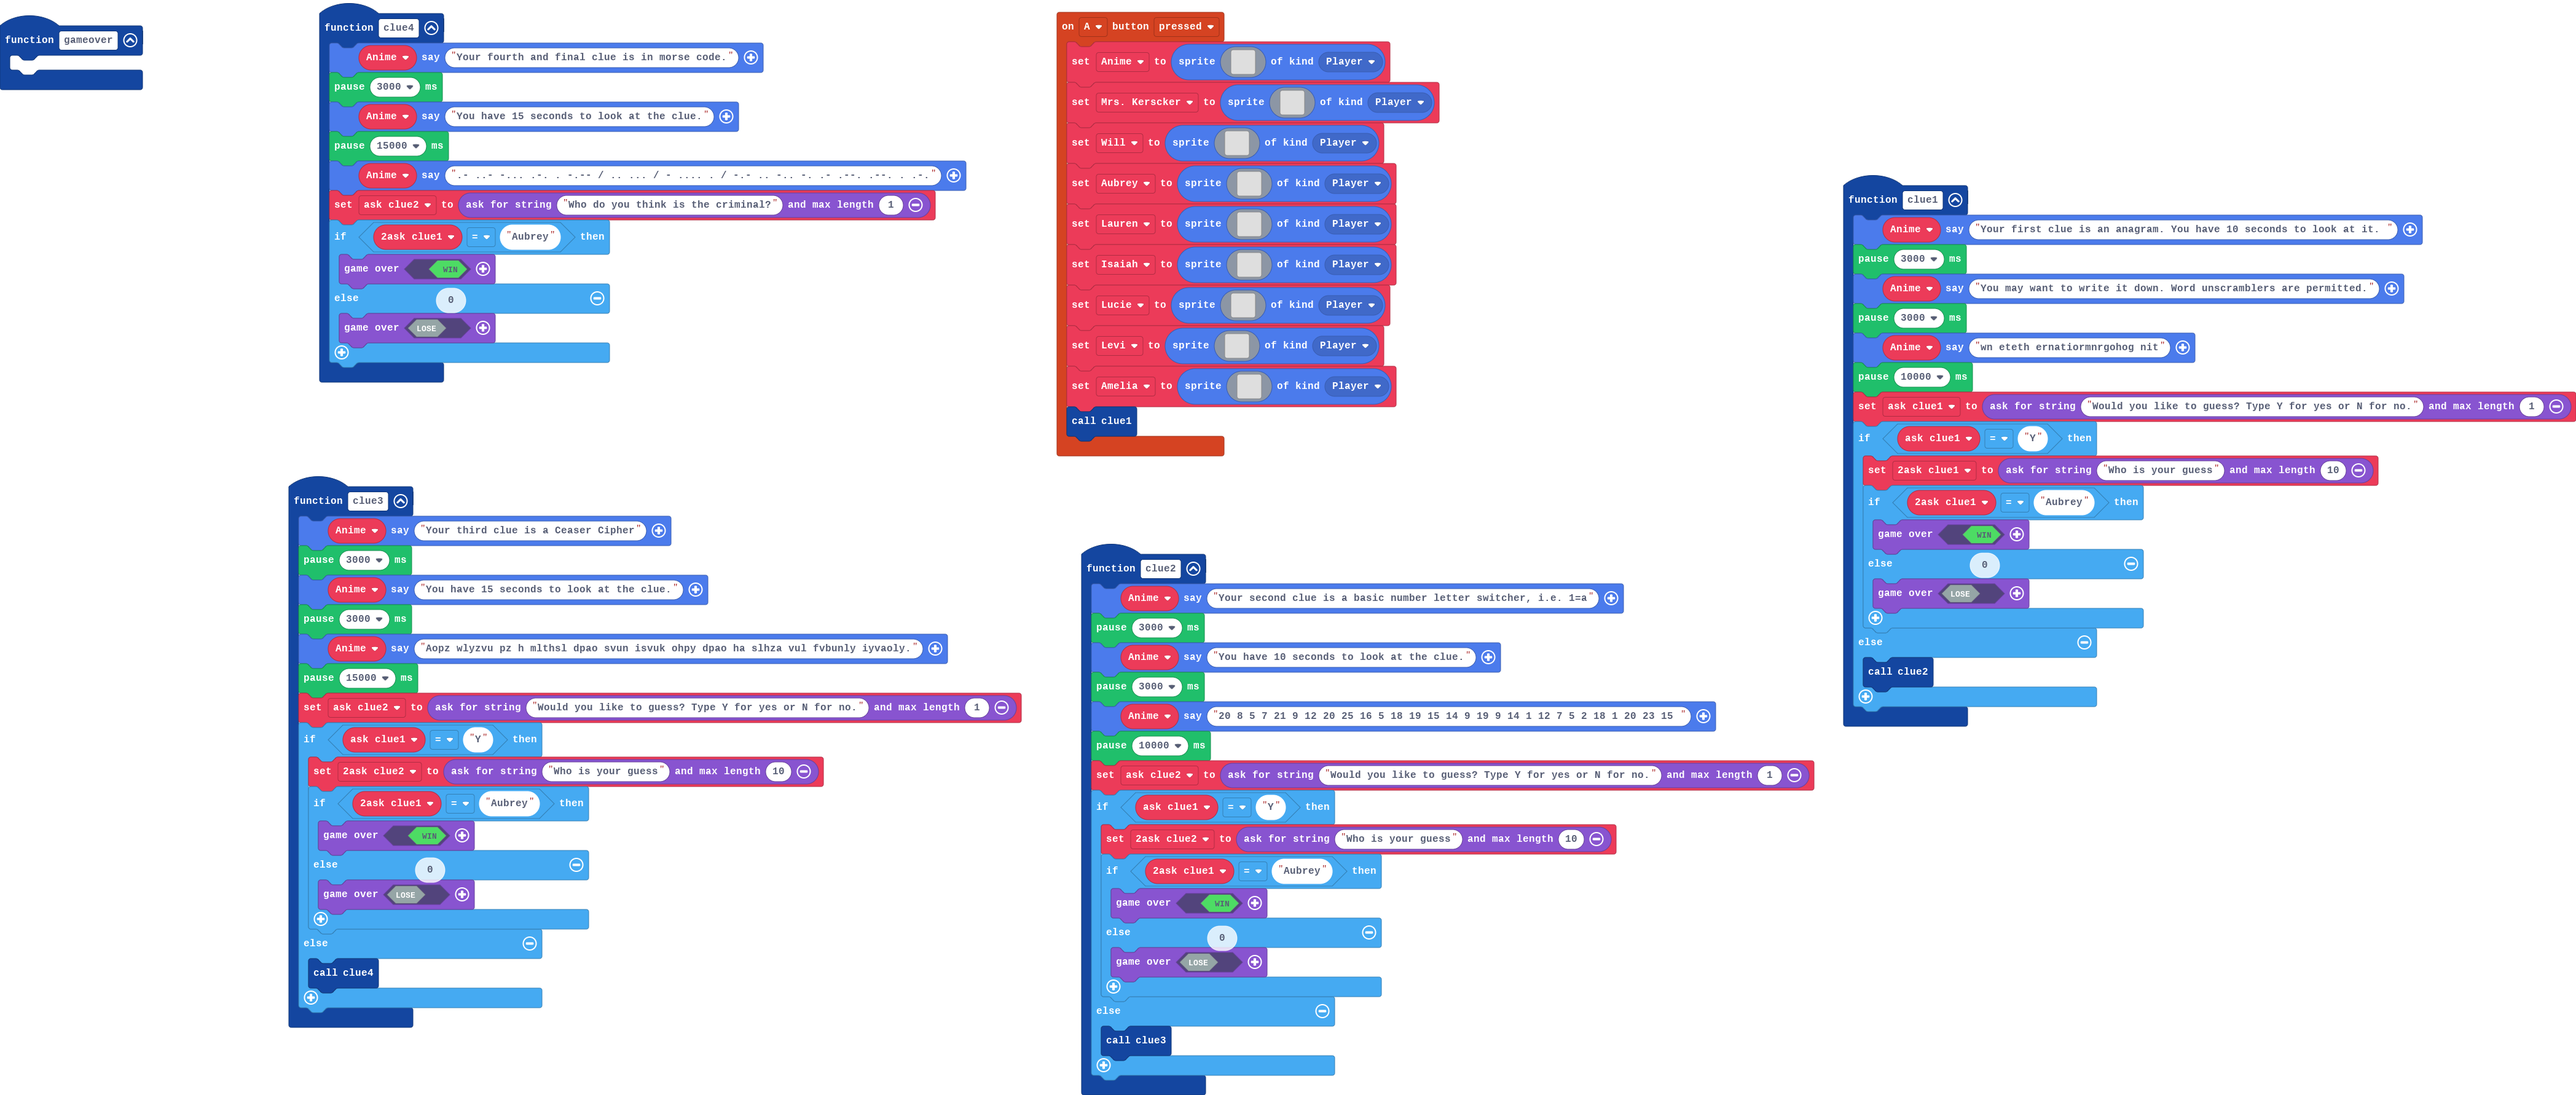
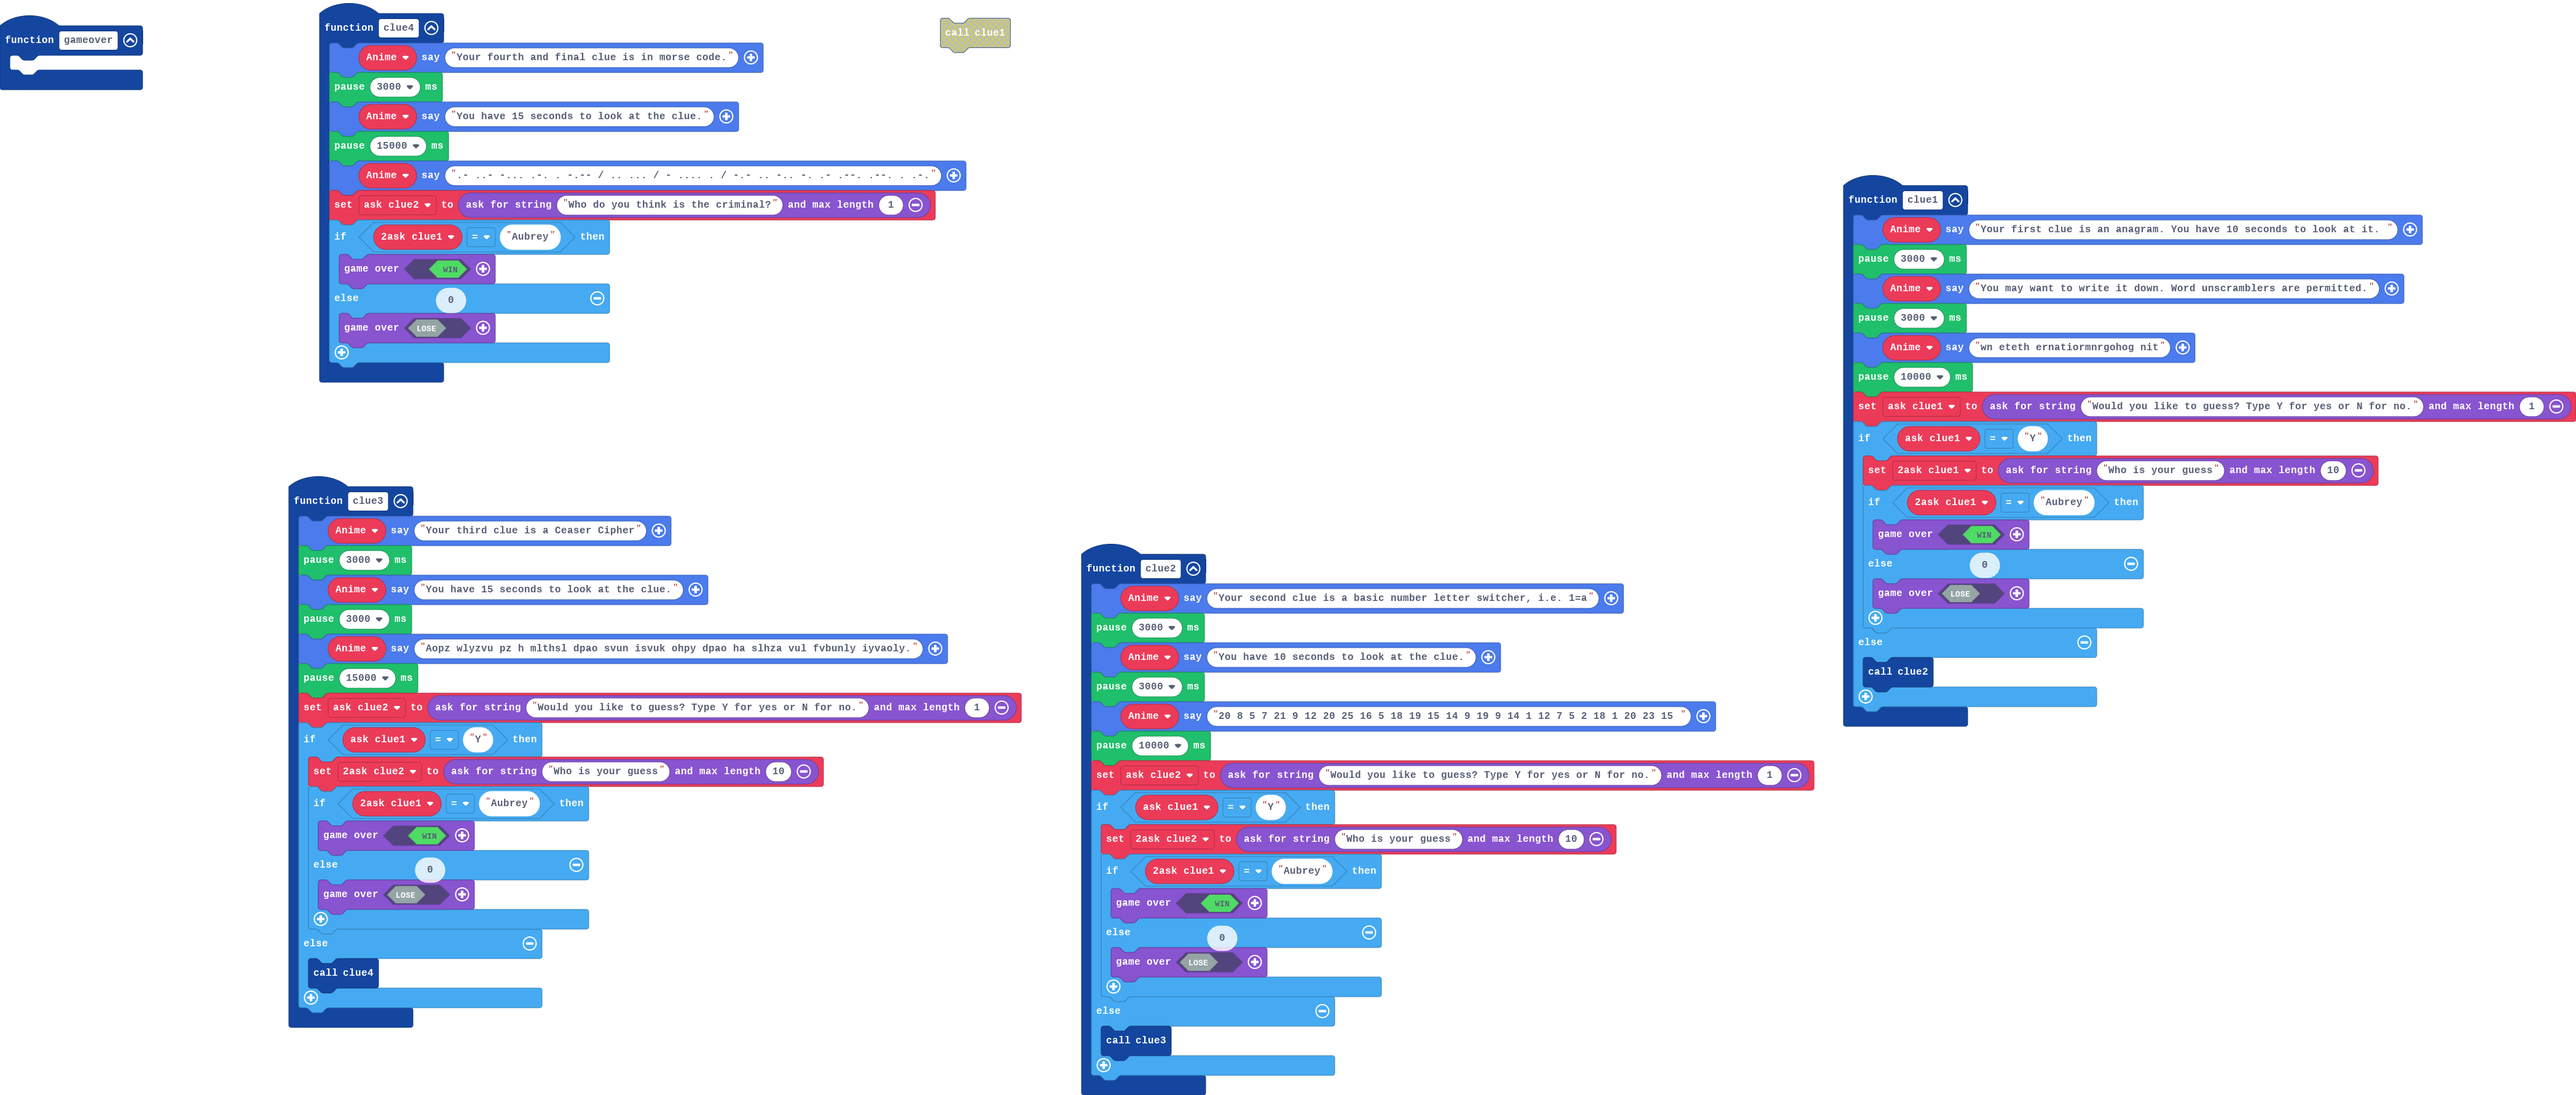
Added the extension story

Changed region(s): [[0.3438, 0.0, 0.5625, 0.4321]]

diff --git a/main.ts b/main.ts
@@ -3,14 +3,6 @@ let ask_clue2 = ""
 let ask_clue1 = ""
 let _2ask_clue2 = ""
 let _2ask_clue1 = ""
-let Mrs_Kerscker: Sprite = null
-let Will: Sprite = null
-let Aubrey: Sprite = null
-let Lauren: Sprite = null
-let Isaiah: Sprite = null
-let Lucie: Sprite = null
-let Levi: Sprite = null
-let Amelia: Sprite = null
 function clue3 () {
     Anime.sayText("Your third clue is a Ceaser Cipher")
     pause(3000)
@@ -30,171 +22,6 @@ function clue3 () {
         clue4()
     }
 }
-controller.A.onEvent(ControllerButtonEvent.Pressed, function () {
-    Anime = sprites.create(img`
-        . . . . . . . . . . . . . . . . 
-        . . . . . . . . . . . . . . . . 
-        . . . . . . . . . . . . . . . . 
-        . . . . . . . . . . . . . . . . 
-        . . . . . . . . . . . . . . . . 
-        . . . . . . . . . . . . . . . . 
-        . . . . . . . . . . . . . . . . 
-        . . . . . . . . . . . . . . . . 
-        . . . . . . . . . . . . . . . . 
-        . . . . . . . . . . . . . . . . 
-        . . . . . . . . . . . . . . . . 
-        . . . . . . . . . . . . . . . . 
-        . . . . . . . . . . . . . . . . 
-        . . . . . . . . . . . . . . . . 
-        . . . . . . . . . . . . . . . . 
-        . . . . . . . . . . . . . . . . 
-        `, SpriteKind.Player)
-    Mrs_Kerscker = sprites.create(img`
-        . . . . . . . . . . . . . . . . 
-        . . . . . . . . . . . . . . . . 
-        . . . . . . . . . . . . . . . . 
-        . . . . . . . . . . . . . . . . 
-        . . . . . . . . . . . . . . . . 
-        . . . . . . . . . . . . . . . . 
-        . . . . . . . . . . . . . . . . 
-        . . . . . . . . . . . . . . . . 
-        . . . . . . . . . . . . . . . . 
-        . . . . . . . . . . . . . . . . 
-        . . . . . . . . . . . . . . . . 
-        . . . . . . . . . . . . . . . . 
-        . . . . . . . . . . . . . . . . 
-        . . . . . . . . . . . . . . . . 
-        . . . . . . . . . . . . . . . . 
-        . . . . . . . . . . . . . . . . 
-        `, SpriteKind.Player)
-    Will = sprites.create(img`
-        . . . . . . . . . . . . . . . . 
-        . . . . . . . . . . . . . . . . 
-        . . . . . . . . . . . . . . . . 
-        . . . . . . . . . . . . . . . . 
-        . . . . . . . . . . . . . . . . 
-        . . . . . . . . . . . . . . . . 
-        . . . . . . . . . . . . . . . . 
-        . . . . . . . . . . . . . . . . 
-        . . . . . . . . . . . . . . . . 
-        . . . . . . . . . . . . . . . . 
-        . . . . . . . . . . . . . . . . 
-        . . . . . . . . . . . . . . . . 
-        . . . . . . . . . . . . . . . . 
-        . . . . . . . . . . . . . . . . 
-        . . . . . . . . . . . . . . . . 
-        . . . . . . . . . . . . . . . . 
-        `, SpriteKind.Player)
-    Aubrey = sprites.create(img`
-        . . . . . . . . . . . . . . . . 
-        . . . . . . . . . . . . . . . . 
-        . . . . . . . . . . . . . . . . 
-        . . . . . . . . . . . . . . . . 
-        . . . . . . . . . . . . . . . . 
-        . . . . . . . . . . . . . . . . 
-        . . . . . . . . . . . . . . . . 
-        . . . . . . . . . . . . . . . . 
-        . . . . . . . . . . . . . . . . 
-        . . . . . . . . . . . . . . . . 
-        . . . . . . . . . . . . . . . . 
-        . . . . . . . . . . . . . . . . 
-        . . . . . . . . . . . . . . . . 
-        . . . . . . . . . . . . . . . . 
-        . . . . . . . . . . . . . . . . 
-        . . . . . . . . . . . . . . . . 
-        `, SpriteKind.Player)
-    Lauren = sprites.create(img`
-        . . . . . . . . . . . . . . . . 
-        . . . . . . . . . . . . . . . . 
-        . . . . . . . . . . . . . . . . 
-        . . . . . . . . . . . . . . . . 
-        . . . . . . . . . . . . . . . . 
-        . . . . . . . . . . . . . . . . 
-        . . . . . . . . . . . . . . . . 
-        . . . . . . . . . . . . . . . . 
-        . . . . . . . . . . . . . . . . 
-        . . . . . . . . . . . . . . . . 
-        . . . . . . . . . . . . . . . . 
-        . . . . . . . . . . . . . . . . 
-        . . . . . . . . . . . . . . . . 
-        . . . . . . . . . . . . . . . . 
-        . . . . . . . . . . . . . . . . 
-        . . . . . . . . . . . . . . . . 
-        `, SpriteKind.Player)
-    Isaiah = sprites.create(img`
-        . . . . . . . . . . . . . . . . 
-        . . . . . . . . . . . . . . . . 
-        . . . . . . . . . . . . . . . . 
-        . . . . . . . . . . . . . . . . 
-        . . . . . . . . . . . . . . . . 
-        . . . . . . . . . . . . . . . . 
-        . . . . . . . . . . . . . . . . 
-        . . . . . . . . . . . . . . . . 
-        . . . . . . . . . . . . . . . . 
-        . . . . . . . . . . . . . . . . 
-        . . . . . . . . . . . . . . . . 
-        . . . . . . . . . . . . . . . . 
-        . . . . . . . . . . . . . . . . 
-        . . . . . . . . . . . . . . . . 
-        . . . . . . . . . . . . . . . . 
-        . . . . . . . . . . . . . . . . 
-        `, SpriteKind.Player)
-    Lucie = sprites.create(img`
-        . . . . . . . . . . . . . . . . 
-        . . . . . . . . . . . . . . . . 
-        . . . . . . . . . . . . . . . . 
-        . . . . . . . . . . . . . . . . 
-        . . . . . . . . . . . . . . . . 
-        . . . . . . . . . . . . . . . . 
-        . . . . . . . . . . . . . . . . 
-        . . . . . . . . . . . . . . . . 
-        . . . . . . . . . . . . . . . . 
-        . . . . . . . . . . . . . . . . 
-        . . . . . . . . . . . . . . . . 
-        . . . . . . . . . . . . . . . . 
-        . . . . . . . . . . . . . . . . 
-        . . . . . . . . . . . . . . . . 
-        . . . . . . . . . . . . . . . . 
-        . . . . . . . . . . . . . . . . 
-        `, SpriteKind.Player)
-    Levi = sprites.create(img`
-        . . . . . . . . . . . . . . . . 
-        . . . . . . . . . . . . . . . . 
-        . . . . . . . . . . . . . . . . 
-        . . . . . . . . . . . . . . . . 
-        . . . . . . . . . . . . . . . . 
-        . . . . . . . . . . . . . . . . 
-        . . . . . . . . . . . . . . . . 
-        . . . . . . . . . . . . . . . . 
-        . . . . . . . . . . . . . . . . 
-        . . . . . . . . . . . . . . . . 
-        . . . . . . . . . . . . . . . . 
-        . . . . . . . . . . . . . . . . 
-        . . . . . . . . . . . . . . . . 
-        . . . . . . . . . . . . . . . . 
-        . . . . . . . . . . . . . . . . 
-        . . . . . . . . . . . . . . . . 
-        `, SpriteKind.Player)
-    Amelia = sprites.create(img`
-        . . . . . . . . . . . . . . . . 
-        . . . . . . . . . . . . . . . . 
-        . . . . . . . . . . . . . . . . 
-        . . . . . . . . . . . . . . . . 
-        . . . . . . . . . . . . . . . . 
-        . . . . . . . . . . . . . . . . 
-        . . . . . . . . . . . . . . . . 
-        . . . . . . . . . . . . . . . . 
-        . . . . . . . . . . . . . . . . 
-        . . . . . . . . . . . . . . . . 
-        . . . . . . . . . . . . . . . . 
-        . . . . . . . . . . . . . . . . 
-        . . . . . . . . . . . . . . . . 
-        . . . . . . . . . . . . . . . . 
-        . . . . . . . . . . . . . . . . 
-        . . . . . . . . . . . . . . . . 
-        `, SpriteKind.Player)
-    clue1()
-})
 function clue4 () {
     Anime.sayText("Your fourth and final clue is in morse code.")
     pause(3000)
